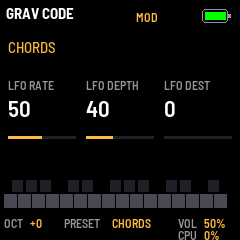
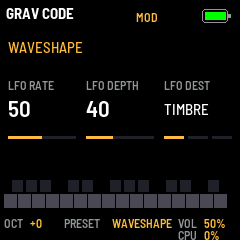
fix(grav-code): apply ENV to six-op FM and name LFO destinations

diff --git a/grav-code/app.c b/grav-code/app.c
@@ -106,6 +106,9 @@ static volatile int32_t plaits_harmonics = 75;
 
 /* Parameters for future modulation and envelope DSP. */
 static volatile int32_t mod_params[3] = {50, 0, 0};
+static const char *const LFO_DEST_NAME[3] = {"TIMBRE", "MORPH", "PITCH"};
+/* Keep the saved 0..100 representation compatible with 0.14.0 and earlier. */
+static uint32_t lfo_destination(int32_t value) { return (uint32_t)clamp(value / 34, 0, 2); }
 static volatile int32_t env_params[3] = {10, 50, 30};
 
 static const char *const PARAM_NAME[PAGE_N][3] = {
@@ -198,7 +201,7 @@ void app_render(int32_t *lr, uint32_t n, uint32_t master_q12)
     float timbre = (float)plaits_timbre * 0.01f;
     float morph = (float)plaits_morph * 0.01f;
     float lfo_value = lfo_process(&synth.mod_lfo);
-    int32_t lfo_dest = mod_params[2] / 34;
+    uint32_t lfo_dest = lfo_destination(mod_params[2]);
     float pitch_offset = (lfo_dest == 2) ? lfo_value * 2.0f : 0.0f;
 
     if (lfo_dest == 0)
@@ -550,7 +553,10 @@ static int param_centred(uint32_t page, uint32_t index)
 /* a knob's value as the screen and a screen reader give it: PITCH in semitones (Beads' law), the rest as it is */
 static void param_text(uint32_t page, uint32_t index, int32_t value, char *t)
 {
-    if (page == PAGE_FX_SHAPE && index == 1u) {
+    if (page == PAGE_MOD && index == 2u) {
+        t[0] = 0;
+        text_cat(t, LFO_DEST_NAME[lfo_destination(value)]);
+    } else if (page == PAGE_FX_SHAPE && index == 1u) {
         float st = grav_beads_pitch((float)value * 0.01f);
         int32_t s = (int32_t)(st + (st < 0.0f ? -0.5f : 0.5f));
         if (s > 0) {
@@ -674,6 +680,14 @@ static void input(void)
             glo_turn((uint32_t)(k - EN_K1), e);
         } else if (k == EN_K3 && active_page == PAGE_FX_MIX) {
             quality_turn(e);
+        } else if (k == EN_K3 && active_page == PAGE_MOD) {
+            uint32_t destination = (uint32_t)clamp((int32_t)lfo_destination(mod_params[2]) + e, 0, 2);
+            int32_t value = (int32_t)destination * 34;
+            if (value != mod_params[2]) {
+                mod_params[2] = value;
+                set_dirty = 1;
+            }
+            app_say("LFO DEST", LFO_DEST_NAME[destination]);
         } else if (k == EN_K1 || k == EN_K2 || k == EN_K3) {
             uint32_t index = (uint32_t)(k - EN_K1);
             volatile int32_t *value = param_of(active_page, index);
@@ -733,6 +747,13 @@ static void draw_knobs(void)
     for (uint32_t i = 0; i < 3u; i++) {
         int32_t x = 8 + (int32_t)i * 78;
         cv_text(x, 42, &FONT_XS, PARAM_NAME[active_page][i], C_GRAY);
+        if (active_page == PAGE_MOD && i == 2u) {
+            uint32_t destination = lfo_destination(mod_params[2]);
+            cv_text(x, 66, &FONT_S, LFO_DEST_NAME[destination], C_WHITE);
+            for (uint32_t d = 0; d < 3; ++d)
+                cv_rect(x + (int32_t)d * 24, 100, 20, 3, d == destination ? C_HI : C_LINE);
+            continue;
+        }
         if (active_page == PAGE_FX_MIX && i == 2u) {
             cv_text(x, 66, &FONT_S, QUALITY_NAME[fx_quality], C_WHITE);
             for (int32_t q = 0; q < GRAV_FX_QUALITIES; q++)
@@ -1033,6 +1054,13 @@ int app_sysex(const uint8_t *p, uint32_t n)
 int app_host_cmd(const char *cmd, const char *a, const char *b, const char *c, const char *d)
 {
     (void)a; (void)b; (void)c; (void)d;
+    if (!strcmp(cmd, "save_moddest")) {
+        settings_capture();
+        settings_t legacy = set;
+        legacy.mod[2] = (uint8_t)clamp(atoi(a), 0, 100);
+        plat_store_save(OBJ_SETTINGS, &legacy, sizeof legacy);
+        return 1;
+    }
     if (!strcmp(cmd, "debug_overload")) {
         app_overload();
         return 1;
@@ -1062,6 +1090,8 @@ int app_expect(const char *what, int *got)
         *got = (int)grav_debug.steals;
     else if (!strcmp(what, "wave"))
         *got = set.engine_id;
+    else if (!strcmp(what, "lfo_dest"))
+        *got = (int)lfo_destination(mod_params[2]);
     else if (!strcmp(what, "engine_ram"))    /* bytes of its voice's RAM the engine's Init took */
         *got = (int)grav_plaits_ram_used();
     else if (!strcmp(what, "voices"))        /* GLO VOICES: 1 MONO, 2..4 POLY */

diff --git a/grav-code/tests/dual_core_test.cpp b/grav-code/tests/dual_core_test.cpp
@@ -4,6 +4,7 @@
 #include <chrono>
 #include <cstdio>
 #include <cstring>
+#include <cmath>
 #include <thread>
 #include <vector>
 #include "stmlib/utils/random.h"
@@ -84,7 +85,75 @@ static std::vector<int32_t> render(unsigned engine, unsigned voices, bool fx_on,
     return result;
 }
 
+// Audio regressions: changing ENV must change 6-op output, not just its hidden app envelope.
+static std::vector<int32_t> six_op_audio(unsigned engine, float attack, float decay, float release,
+                                       unsigned destination = 0, bool modulate = false) {
+    stmlib::Random::Seed(0x21);
+    synth_t synth;
+    grav_engine_t dsp;
+    synth_init(&synth);
+    synth_envelopes(&synth, attack, decay, 0.7f, release, 44100.0f);
+    grav_engine_init(&dsp);
+    grav_dual_core = 0;
+    enabled = true;
+    accept_job = true;
+    grav_beads_params_t fx = {};
+    synth_note_on(&synth, 60, 100);
+    std::vector<int32_t> result;
+    for (unsigned b = 0; b < 100; ++b) {
+        if (b == 60) synth_note_off(&synth, 60);
+        const float lfo = modulate ? 0.8f * std::sin(float(b) * 0.17f) : 0.0f;
+        float timbre = 0.5f + (destination == 0 ? lfo * 0.5f : 0.0f);
+        float morph = 0.5f + (destination == 1 ? lfo * 0.5f : 0.0f);
+        float pitch = destination == 2 ? lfo * 2.0f : 0.0f;
+        int32_t out[512];
+        grav_engine_render(&dsp, out, 256, &synth, engine, 3200, timbre, morph, 0.75f, pitch, &fx);
+        for (unsigned i = 0; i < 256; ++i) result.push_back(out[2 * i]);
+    }
+    return result;
+}
+
+static double energy(const std::vector<int32_t>& samples, unsigned first, unsigned last) {
+    double sum = 0;
+    for (unsigned i = first; i < last; ++i) {
+        const double sample = double(samples[i]) / 8388608.0;
+        sum += sample * sample;
+    }
+    return sum / (last - first);
+}
+
+static bool six_op_controls() {
+    for (unsigned e = GRAV_ENGINE_SIX_OP_1; e <= GRAV_ENGINE_SIX_OP_3; ++e) {
+        const auto fast = six_op_audio(e, 0.0f, 0.0f, 0.15f);
+        const auto slow_attack = six_op_audio(e, 2.0f, 0.0f, 0.15f);
+        const auto slow_decay = six_op_audio(e, 0.0f, 2.0f, 0.15f);
+        const auto no_release = six_op_audio(e, 0.0f, 0.0f, 0.0f);
+        const double early = energy(fast, 256, 12 * 256);
+        const double attack_ratio = energy(slow_attack, 256, 12 * 256) / early;
+        const double decay_ratio = energy(slow_decay, 5 * 256, 20 * 256) /
+                                   energy(fast, 5 * 256, 20 * 256);
+        const double short_release = energy(no_release, 61 * 256, 64 * 256);
+        const double long_release = energy(fast, 61 * 256, 64 * 256);
+        if (!(early > 1e-12 && attack_ratio < 0.02 && decay_ratio > 1.3 &&
+              short_release == 0.0 && long_release > 1e-12 && energy(fast, 95 * 256, 100 * 256) == 0.0)) {
+            std::fprintf(stderr, "Six-op ENV failure engine=%u: attack ratio=%g decay ratio=%g release=%g/%g\n",
+                         e, attack_ratio, decay_ratio, short_release, long_release);
+            return false;
+        }
+        for (unsigned destination = 0; destination < 3; ++destination) {
+            const auto modulated = six_op_audio(e, 0.0f, 0.0f, 0.15f, destination, true);
+            if (modulated == fast) {
+                std::fprintf(stderr, "Six-op modulation did not affect audio: engine=%u dest=%u\n", e, destination);
+                return false;
+            }
+        }
+    }
+    std::puts("PASS: all three 6-op banks respond to ATTACK, DECAY, RELEASE and TIMBRE/MORPH/PITCH modulation");
+    return true;
+}
+
 int main() {
+    if (!six_op_controls()) return 1;
     unsigned comparisons = 0;
     for (unsigned e = 0; e < GRAV_ENGINE_COUNT; ++e) {
         for (unsigned voices = 1; voices <= 4; ++voices) {

diff --git a/grav-code/dsp/grav_plaits.cpp b/grav-code/dsp/grav_plaits.cpp
@@ -79,9 +79,10 @@ const Info info[] = {
   /* HI_HAT           */ { "HI-HAT",     GATE,  true,  2.2f,  nullptr },
   /* VA_VCF           */ { "VA VCF",     FREE,  false, 0.85f, nullptr },
   /* PHASE_DISTORTION */ { "PHASE DIST", FREE,  false, 0.73f, nullptr },
-  /* SIX_OP_1         */ { "6-OP FM 1",  GATE,  true,  1.8f,  plaits::syx_bank_0 },
-  /* SIX_OP_2         */ { "6-OP FM 2",  GATE,  true,  1.8f,  plaits::syx_bank_1 },
-  /* SIX_OP_3         */ { "6-OP FM 3",  GATE,  true,  1.8f,  plaits::syx_bank_2 },
+  // FM operator envelopes shape the patch's timbre; the app's ENV still shapes its final amplitude.
+  /* SIX_OP_1         */ { "6-OP FM 1",  GATE,  false, 1.8f,  plaits::syx_bank_0 },
+  /* SIX_OP_2         */ { "6-OP FM 2",  GATE,  false, 1.8f,  plaits::syx_bank_1 },
+  /* SIX_OP_3         */ { "6-OP FM 3",  GATE,  false, 1.8f,  plaits::syx_bank_2 },
   /* WAVE_TERRAIN     */ { "TERRAIN",    FREE,  false, 1.65f, nullptr },
   /* STRING_MACHINE   */ { "STRING MCH", FREE,  false, 3.3f,  nullptr },
   /* CHIPTUNE         */ { "CHIPTUNE",   FREE,  false, 1.0f,  nullptr },

diff --git a/grav-code/dsp/grav_plaits.h b/grav-code/dsp/grav_plaits.h
@@ -53,7 +53,8 @@ void grav_plaits_init(void);
 void grav_plaits_engine(uint32_t engine);
 /* size samples of voice (12 or more, so that a strike is never lost: GRAV_PLAITS_BLOCK chunks), the engine's
  * 12-sample blocks through the voice's FIFO; 1 when the engine shaped them with an envelope of its own (a drum, the
- * 6-op FM, a spoken word: GRAV CODE's envelope leaves them, as Plaits' low-pass gate does) */
+ * a spoken word: GRAV CODE's envelope leaves them, as Plaits' low-pass gate does). The six-op FM banks keep
+ * their DX operator envelopes but return 0 so the app's ENV also controls their final amplitude. */
 int grav_plaits_render(uint32_t voice, const grav_plaits_params_t *p, float *out, float *aux, uint32_t size);
 
 const char *grav_engine_name(uint32_t engine);           /* on the screen: 10 characters at most */

diff --git a/grav-code/docs/MANUAL.md b/grav-code/docs/MANUAL.md
@@ -98,7 +98,7 @@ does depends on the engine: section 5. They start at 65, 50 and 75.
 
 ### MOD (LFO)
 
-![The MOD page: LFO RATE 50, LFO DEPTH 40, LFO DEST 0](img/screen-mod.png "The MOD page, the LFO's depth up")
+![The MOD page: LFO RATE 50, LFO DEPTH 40, LFO DEST TIMBRE](img/screen-mod.png "The MOD page, the LFO's depth up")
 
 One sine LFO for all the voices, free-running (a note doesn't restart it):
 
@@ -106,10 +106,15 @@ One sine LFO for all the voices, free-running (a note doesn't restart it):
 | --- | --- | --- |
 | K1 | LFO RATE | 0.05 Hz to 20 Hz (50: 10 Hz) |
 | K2 | LFO DEPTH | 0 (off) to 100 |
-| K3 | LFO DEST | 0 to 33: TIMBRE; 34 to 67: MORPH; 68 to 100: PITCH |
+| K3 | LFO DEST | TIMBRE, MORPH or PITCH; one step selects the next destination |
 
 At full depth it sweeps TIMBRE or MORPH by half their range either side of the knob, or the pitch by 2 semitones
 either side. It starts at RATE 50, DEPTH 0 (off).
+
+DEST selects what the LFO changes; DEPTH sets how much it changes. Old saved numeric destinations keep
+their meaning (0–33 TIMBRE, 34–67 MORPH, 68–100 PITCH). On 6-OP FM, MORPH changes the DX patch's
+envelope timing, which may be subtle or inaudible once a patch has settled or decayed. TIMBRE and PITCH
+are the useful destinations for continuous brightness or pitch modulation.
 
 ### ENV (ENV)
 
@@ -126,7 +131,9 @@ Each voice's envelope, which shapes its level:
 It starts at ATTACK 10 (0.2 s), DECAY 50 (1 s) and RELEASE 30 (1.2 s).
 
 > The engines with an envelope of their own play through it, as Plaits' low-pass gate lets them: BASS DRUM, SNARE,
-> HI-HAT, the three 6-OP FM banks (each patch's envelopes), and SPEECH while it speaks a word.
+> HI-HAT and SPEECH while it speaks a word. The three 6-OP FM banks keep their DX operator envelopes,
+> with the app's ENV applied to their final volume. ENV cannot extend a patch that has already decayed
+> to silence. Sustain is fixed at 70%; this page exposes attack, decay and release.
 
 ### GLO (GLO)
 
